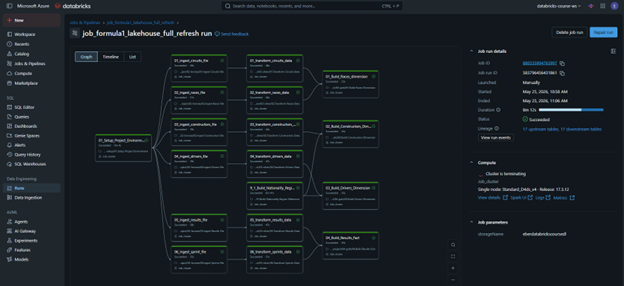
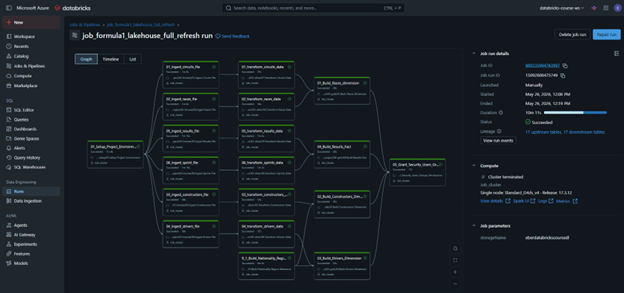
Mod Readme, cambios en imagenes del Job e imagenes

diff --git a/README.md b/README.md
@@ -1,1 +1,135 @@
-# Databricks_F1_Project_v2 SmartData..
+# Databricks_F1_Project_v2 SmartData
+
+# 🏎️ Formula 1 Lakehouse Project
+
+## 📌 Descripción
+
+Este proyecto consiste en construir una plataforma de datos moderna utilizando **Databricks** y arquitectura **Lakehouse** para procesar y analizar información histórica de la Fórmula 1.
+
+La solución permite:
+- Ingerir datos desde múltiples archivos
+- Transformar y limpiar información
+- Construir modelos analíticos
+- Automatizar procesos ETL
+- Visualizar información mediante dashboards
+
+---
+
+# 🎯 Objetivos del Proyecto
+
+- Procesar datos históricos de Fórmula 1
+- Implementar arquitectura Medallion (Bronze, Silver y Gold)
+- Automatizar pipelines con Databricks Jobs
+- Implementar CI/CD con GitHub Actions
+- Crear dashboards analíticos
+- Aplicar buenas prácticas de ingeniería de datos
+
+---
+
+# 🏗️ Arquitectura
+
+## Landing
+Zona donde llegan los archivos originales sin transformación.
+
+## Bronze
+- Validación de esquema
+- Agregado de metadatos
+- Almacenamiento en Delta Tables
+
+## Silver
+- Limpieza y transformación de datos
+- Eliminación de duplicados
+- Estandarización
+
+## Gold
+- Modelo dimensional
+- Tablas de hechos y dimensiones
+- Datos listos para analítica
+
+## Consumo Analítico
+Visualización de información mediante:
+- Databricks Dashboards
+- KPIs
+- Reportes
+
+---
+
+# ⚙️ Tecnologías Utilizadas
+
+- Databricks
+- Apache Spark
+- Delta Lake
+- Unity Catalog
+- GitHub
+- GitHub Actions
+- Azure Data Lake Storage Gen2
+- Python / PySpark
+- SQL
+
+---
+
+# 📂 Datos Utilizados
+
+Los datos provienen de la API open source de Fórmula 1 (Ergast/Jolpica).
+
+## Principales tablas
+
+- Circuits
+- Races
+- Constructors
+- Drivers
+- Results
+- Sprints
+
+---
+
+# 📥 Formatos de Archivos
+
+El proyecto trabaja con diferentes formatos:
+
+- CSV
+- JSON single-line
+- JSON multi-line
+
+---
+
+# 🔄 CI/CD y Automatización
+
+## GitHub
+Utilizado para:
+- Versionamiento
+- Repositorio de notebooks y scripts
+
+## GitHub Actions
+Automatización de:
+- Deploy de notebooks
+- Deploy de jobs
+- Ejecución de workflows
+
+## Databricks Jobs
+- Orquestación de pipelines
+- Dependencias entre tareas
+- Monitoreo y reintentos
+
+---
+
+# 🔐 Seguridad y Gobernanza
+
+- Unity Catalog
+- External Locations
+- Storage Credentials
+- Manejo de permisos y grupos
+
+---
+
+# 📊 Casos de Uso
+
+El proyecto permite analizar:
+
+- Rendimiento de pilotos
+- Rendimiento de constructores
+- Resultados por temporada
+- Estadísticas de carreras
+- Resultados sprint
+
+---